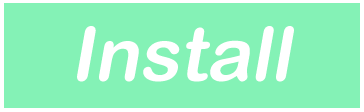
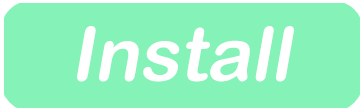
Added images in sw.js

diff --git a/src/components/buttons/install_button.js b/src/components/buttons/install_button.js
@@ -17,7 +17,7 @@ export default class InstallButton {
         self.posX,
         self.posY,
         self.canvas.width / 3,
-        self.canvas.width / 5
+        self.canvas.width / 6
       );
     };
   }
@@ -25,8 +25,8 @@ export default class InstallButton {
     const distance = Math.sqrt(
       (xClick - this.posX - this.canvas.width / 6) *
         (xClick - this.posX - this.canvas.width / 6) +
-        (yClick - this.posY - this.canvas.width / 6) *
-          (yClick - this.posY - this.canvas.width / 6)
+        (yClick - this.posY - this.canvas.width / 12) *
+          (yClick - this.posY - this.canvas.width / 12)
     );
 
     if (distance < this.canvas.width / 8) {

diff --git a/sw.js b/sw.js
@@ -4,6 +4,7 @@ var filesToCache = [
   // infrastructure files ----------------------------------------------------------------------------------------------
 
   "./index.html",
+  "./index.css",
   "./feedTheMonster.js",
   "./sw.js",
   "./manifest.json",
@@ -11,6 +12,9 @@ var filesToCache = [
   "./assets/images/idle4.png",
   "./assets/images/eat4.png",
   "./assets/images/spit4.png",
+  "./assets/images/sad14.png",
+  "./assets/images/happy14.png",
+  "./assets/images/Install_button.png",
   "./assets/images/bg_v01.jpg",
   "./assets/images/hill_v01.png",
   "./assets/images/timer_empty.png",
